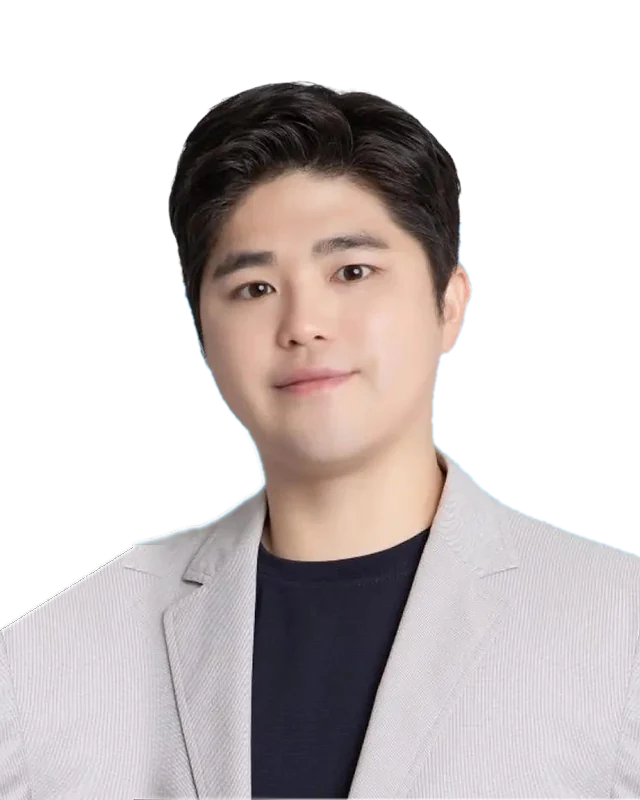
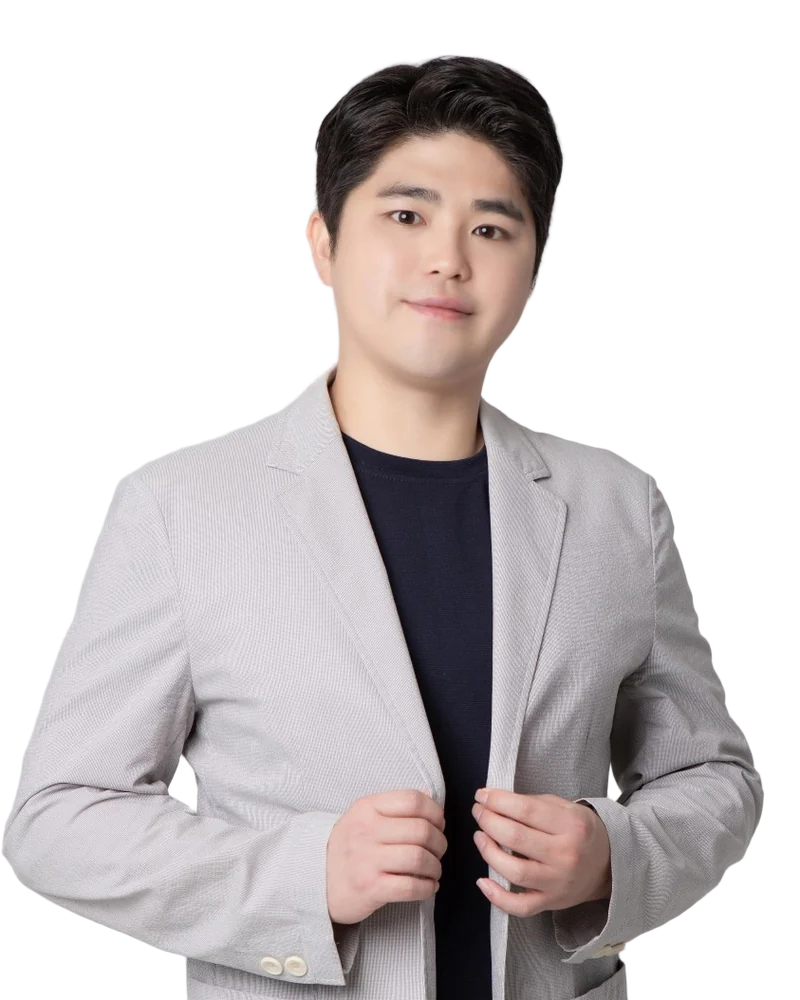
Instructor cards: bring back 3D doogo symbol, new 문대표 upper-body photo
- Restore the extruded doogo symbol frame with the head popping out
  above it, now with the waist-up 4:5 cutouts for every instructor
- New 문대표 cutout from the photo 대표님 sent (same framing as 부알남 ·
  황금농부: 5% headroom, upper body to the waist)
- README

Claude-Session: https://claude.ai/code/session_01QiS8qxkcQBgeuomLZdJMad

diff --git a/class/home.css b/class/home.css
@@ -173,13 +173,23 @@ body[data-mode="home"] { background: #fff; }
 /* 강사진 — 프로필 사진 카드 (사진 · 이름 · 분야 · 구분선 · SNS) */
 .hm-tcs { display: grid; grid-template-columns: repeat(4, minmax(0, 1fr)); gap: 24px; }
 .hm-tc { display: flex; flex-direction: column; min-width: 0; transition: transform .3s var(--ease); }
-/* 강사 사진 — 타이탄클래스 강사진처럼 배경 장식 없이 밝은 회색 카드 안에 강사만. 누끼 사진(4:5, 머리 위 5% 여백 · 허리 위까지)을 아래에 붙여 꽉 채운다 */
+/* 강사 사진 — 긱스쿨 강사진처럼 큰 브랜드 모양 위에 누끼 사진, 우리는 흰 바탕 + 빨간 doogo 심볼(뒤로 6겹 = 입체 두께).
+   액자(.hm-tc-frame)는 위를 14% 비워 두고, 사진(.hm-tc-cut)은 그 위로 머리가 살짝 튀어나오게 — 양옆 · 아래는 액자에 맞춰 자름.
+   사진은 모두 4:5 누끼(머리 위 5% 여백 · 허리 위까지)라 강사마다 같은 구도로 상반신이 보인다 */
 .hm-defs { position: absolute; width: 0; height: 0; overflow: hidden; }
-.hm-tc-photo { position: relative; display: block; aspect-ratio: 4 / 5; border-radius: 16px; overflow: hidden; isolation: isolate; background: linear-gradient(180deg, #f5f6f8 0%, #eceef1 100%); box-shadow: inset 0 0 0 1px rgba(17, 24, 39, .04); transition: box-shadow .3s ease; }
-.hm-tc-frame { position: absolute; inset: 0; }
-.hm-tc-cut { position: absolute; inset: 0; z-index: 1; pointer-events: none; }
-.hm-tc-cut img { position: absolute; inset: 0; width: 100%; height: 100%; object-fit: contain; object-position: 50% 100%; transform-origin: 50% 100%; transition: transform .5s var(--ease); }
-.hm-tc-ph { position: absolute; left: 50%; bottom: 0; width: 70%; transform: translateX(-50%); fill: #d9dde3; }
+.hm-tc { --sw: 132%; --sl: -6%; --st: 4%; }
+.hm-tcs > .hm-tc:nth-child(4n+2) { --sw: 220%; --sl: -40%; --st: -40%; }
+.hm-tcs > .hm-tc:nth-child(4n+3) { --sw: 150%; --sl: -22%; --st: 22%; }
+.hm-tcs > .hm-tc:nth-child(4n+4) { --sw: 190%; --sl: -96%; --st: -6%; }
+.hm-tc-photo { position: relative; display: block; aspect-ratio: 4 / 5; border-radius: 18px; }
+.hm-tc-frame { position: absolute; left: 0; right: 0; top: 14%; bottom: 0; border-radius: 18px; overflow: hidden; background: linear-gradient(180deg, #fff7f6 0%, #ffffff 70%); border: 1px solid #f4e6e4; box-shadow: 0 22px 40px -26px rgba(150, 30, 20, .45); transition: box-shadow .3s ease; }
+.hm-tc-sym { position: absolute; left: var(--sl); top: var(--st); width: var(--sw); height: auto; overflow: visible; filter: drop-shadow(0 18px 22px rgba(170, 24, 12, .22)); transition: transform .6s var(--ease); }
+.hm-tc-ex { fill: #c61d12; }
+.hm-tc-ex:first-child { fill: #a8160c; }
+.hm-tc-face { fill: url(#hm-dsym-g); }
+.hm-tc-cut { position: absolute; inset: 0; z-index: 2; pointer-events: none; clip-path: inset(-40% 0 0 0 round 0 0 18px 18px); }
+.hm-tc-cut img { position: absolute; left: 50%; bottom: 0; height: 106%; width: auto; max-width: none; transform: translateX(-50%); transform-origin: 50% 100%; filter: drop-shadow(0 10px 18px rgba(60, 10, 6, .22)); transition: transform .5s var(--ease); }
+.hm-tc-ph { position: absolute; left: 50%; bottom: 0; width: 64%; transform: translateX(-50%); fill: #fff; filter: drop-shadow(0 10px 16px rgba(150, 24, 12, .28)); }
 .hm-tc-tag { position: absolute; z-index: 3; left: 12px; bottom: 12px; padding: 4px 10px; border-radius: 50px; background: rgba(255, 255, 255, .96); border: 1px solid var(--g100); box-shadow: 0 2px 8px rgba(0, 0, 0, .08); font-size: 12px; font-weight: 600; color: var(--g700); transition: background-color .25s ease, color .25s ease, border-color .25s ease; }
 .hm-tc-body { padding: 18px 2px 14px; border-bottom: 1px solid var(--g200); }
 .hm-tc-body h3 { font-size: 20px; font-weight: 700; line-height: 1.4; letter-spacing: 0; transition: color .2s ease; }
@@ -418,8 +428,9 @@ body[data-mode="home"] { background: #fff; }
   .hm-hov:hover .hm-ic { transform: rotate(-8deg) scale(1.08); }
 
   .hm-tc:hover { transform: translateY(-6px); }
-  .hm-tc:hover .hm-tc-photo { box-shadow: inset 0 0 0 1px rgba(17, 24, 39, .04), 0 22px 40px -26px rgba(17, 24, 39, .35); }
-  .hm-tc:hover .hm-tc-cut img { transform: scale(1.03); }
+  .hm-tc:hover .hm-tc-frame { box-shadow: 0 28px 48px -24px rgba(150, 30, 20, .5); }
+  .hm-tc:hover .hm-tc-cut img { transform: translateX(-50%) scale(1.04); }
+  .hm-tc:hover .hm-tc-sym { transform: translate(-3%, -4%) scale(1.05); }
   .hm-tc:hover .hm-tc-tag { background: var(--pri); border-color: var(--pri); color: #fff; }
   .hm-tc:hover h3 { color: var(--pri); }
   .hm-sns:hover { border-color: var(--g400); background: #fff; }
@@ -503,10 +514,10 @@ textarea.hm-in { height: auto; min-height: 76px; padding: 13px 16px; line-height
   .hm-cmp-strike { transition: none; background-size: 100% 2px; }
   .hm-cmp-row.in .hm-cmp-ok, .hm-cmp-row.in .hm-cmp-new { animation: none; }
   .hm-chip, .hm-dot, .hm-mbg, .hm-modal, .hm-done-ic { animation: none; }
-  .hm-btn, .hm-hov, .hm-tc, .hm-join, .hm-ic, .hm-tc-cut img, .hm-join-ic { transition: none; }
+  .hm-btn, .hm-hov, .hm-tc, .hm-join, .hm-ic, .hm-tc-cut img, .hm-tc-sym, .hm-join-ic { transition: none; }
   .hm-hov:hover, .hm-tc:hover, .hm-join:hover,   .hm-top, .hm-top-prog { transition: none; }
-  .hm-hov:hover .hm-ic, .hm-join:hover .hm-join-ic { transform: none; }
-  .hm-tc:hover .hm-tc-cut img { transform: none; }
+  .hm-hov:hover .hm-ic, .hm-join:hover .hm-join-ic, .hm-tc:hover .hm-tc-sym { transform: none; }
+  .hm-tc:hover .hm-tc-cut img { transform: translateX(-50%); }
 }
 
 /* 태블릿 */

diff --git a/dist/class/home.css b/dist/class/home.css
@@ -173,13 +173,23 @@ body[data-mode="home"] { background: #fff; }
 /* 강사진 — 프로필 사진 카드 (사진 · 이름 · 분야 · 구분선 · SNS) */
 .hm-tcs { display: grid; grid-template-columns: repeat(4, minmax(0, 1fr)); gap: 24px; }
 .hm-tc { display: flex; flex-direction: column; min-width: 0; transition: transform .3s var(--ease); }
-/* 강사 사진 — 타이탄클래스 강사진처럼 배경 장식 없이 밝은 회색 카드 안에 강사만. 누끼 사진(4:5, 머리 위 5% 여백 · 허리 위까지)을 아래에 붙여 꽉 채운다 */
+/* 강사 사진 — 긱스쿨 강사진처럼 큰 브랜드 모양 위에 누끼 사진, 우리는 흰 바탕 + 빨간 doogo 심볼(뒤로 6겹 = 입체 두께).
+   액자(.hm-tc-frame)는 위를 14% 비워 두고, 사진(.hm-tc-cut)은 그 위로 머리가 살짝 튀어나오게 — 양옆 · 아래는 액자에 맞춰 자름.
+   사진은 모두 4:5 누끼(머리 위 5% 여백 · 허리 위까지)라 강사마다 같은 구도로 상반신이 보인다 */
 .hm-defs { position: absolute; width: 0; height: 0; overflow: hidden; }
-.hm-tc-photo { position: relative; display: block; aspect-ratio: 4 / 5; border-radius: 16px; overflow: hidden; isolation: isolate; background: linear-gradient(180deg, #f5f6f8 0%, #eceef1 100%); box-shadow: inset 0 0 0 1px rgba(17, 24, 39, .04); transition: box-shadow .3s ease; }
-.hm-tc-frame { position: absolute; inset: 0; }
-.hm-tc-cut { position: absolute; inset: 0; z-index: 1; pointer-events: none; }
-.hm-tc-cut img { position: absolute; inset: 0; width: 100%; height: 100%; object-fit: contain; object-position: 50% 100%; transform-origin: 50% 100%; transition: transform .5s var(--ease); }
-.hm-tc-ph { position: absolute; left: 50%; bottom: 0; width: 70%; transform: translateX(-50%); fill: #d9dde3; }
+.hm-tc { --sw: 132%; --sl: -6%; --st: 4%; }
+.hm-tcs > .hm-tc:nth-child(4n+2) { --sw: 220%; --sl: -40%; --st: -40%; }
+.hm-tcs > .hm-tc:nth-child(4n+3) { --sw: 150%; --sl: -22%; --st: 22%; }
+.hm-tcs > .hm-tc:nth-child(4n+4) { --sw: 190%; --sl: -96%; --st: -6%; }
+.hm-tc-photo { position: relative; display: block; aspect-ratio: 4 / 5; border-radius: 18px; }
+.hm-tc-frame { position: absolute; left: 0; right: 0; top: 14%; bottom: 0; border-radius: 18px; overflow: hidden; background: linear-gradient(180deg, #fff7f6 0%, #ffffff 70%); border: 1px solid #f4e6e4; box-shadow: 0 22px 40px -26px rgba(150, 30, 20, .45); transition: box-shadow .3s ease; }
+.hm-tc-sym { position: absolute; left: var(--sl); top: var(--st); width: var(--sw); height: auto; overflow: visible; filter: drop-shadow(0 18px 22px rgba(170, 24, 12, .22)); transition: transform .6s var(--ease); }
+.hm-tc-ex { fill: #c61d12; }
+.hm-tc-ex:first-child { fill: #a8160c; }
+.hm-tc-face { fill: url(#hm-dsym-g); }
+.hm-tc-cut { position: absolute; inset: 0; z-index: 2; pointer-events: none; clip-path: inset(-40% 0 0 0 round 0 0 18px 18px); }
+.hm-tc-cut img { position: absolute; left: 50%; bottom: 0; height: 106%; width: auto; max-width: none; transform: translateX(-50%); transform-origin: 50% 100%; filter: drop-shadow(0 10px 18px rgba(60, 10, 6, .22)); transition: transform .5s var(--ease); }
+.hm-tc-ph { position: absolute; left: 50%; bottom: 0; width: 64%; transform: translateX(-50%); fill: #fff; filter: drop-shadow(0 10px 16px rgba(150, 24, 12, .28)); }
 .hm-tc-tag { position: absolute; z-index: 3; left: 12px; bottom: 12px; padding: 4px 10px; border-radius: 50px; background: rgba(255, 255, 255, .96); border: 1px solid var(--g100); box-shadow: 0 2px 8px rgba(0, 0, 0, .08); font-size: 12px; font-weight: 600; color: var(--g700); transition: background-color .25s ease, color .25s ease, border-color .25s ease; }
 .hm-tc-body { padding: 18px 2px 14px; border-bottom: 1px solid var(--g200); }
 .hm-tc-body h3 { font-size: 20px; font-weight: 700; line-height: 1.4; letter-spacing: 0; transition: color .2s ease; }
@@ -418,8 +428,9 @@ body[data-mode="home"] { background: #fff; }
   .hm-hov:hover .hm-ic { transform: rotate(-8deg) scale(1.08); }
 
   .hm-tc:hover { transform: translateY(-6px); }
-  .hm-tc:hover .hm-tc-photo { box-shadow: inset 0 0 0 1px rgba(17, 24, 39, .04), 0 22px 40px -26px rgba(17, 24, 39, .35); }
-  .hm-tc:hover .hm-tc-cut img { transform: scale(1.03); }
+  .hm-tc:hover .hm-tc-frame { box-shadow: 0 28px 48px -24px rgba(150, 30, 20, .5); }
+  .hm-tc:hover .hm-tc-cut img { transform: translateX(-50%) scale(1.04); }
+  .hm-tc:hover .hm-tc-sym { transform: translate(-3%, -4%) scale(1.05); }
   .hm-tc:hover .hm-tc-tag { background: var(--pri); border-color: var(--pri); color: #fff; }
   .hm-tc:hover h3 { color: var(--pri); }
   .hm-sns:hover { border-color: var(--g400); background: #fff; }
@@ -503,10 +514,10 @@ textarea.hm-in { height: auto; min-height: 76px; padding: 13px 16px; line-height
   .hm-cmp-strike { transition: none; background-size: 100% 2px; }
   .hm-cmp-row.in .hm-cmp-ok, .hm-cmp-row.in .hm-cmp-new { animation: none; }
   .hm-chip, .hm-dot, .hm-mbg, .hm-modal, .hm-done-ic { animation: none; }
-  .hm-btn, .hm-hov, .hm-tc, .hm-join, .hm-ic, .hm-tc-cut img, .hm-join-ic { transition: none; }
+  .hm-btn, .hm-hov, .hm-tc, .hm-join, .hm-ic, .hm-tc-cut img, .hm-tc-sym, .hm-join-ic { transition: none; }
   .hm-hov:hover, .hm-tc:hover, .hm-join:hover,   .hm-top, .hm-top-prog { transition: none; }
-  .hm-hov:hover .hm-ic, .hm-join:hover .hm-join-ic { transform: none; }
-  .hm-tc:hover .hm-tc-cut img { transform: none; }
+  .hm-hov:hover .hm-ic, .hm-join:hover .hm-join-ic, .hm-tc:hover .hm-tc-sym { transform: none; }
+  .hm-tc:hover .hm-tc-cut img { transform: translateX(-50%); }
 }
 
 /* 태블릿 */

diff --git a/class/home.js b/class/home.js
@@ -338,19 +338,22 @@
     kakao: '<svg viewBox="0 0 24 24" aria-hidden="true"><rect x="1.5" y="1.5" width="21" height="21" rx="6" fill="#fee500"/><path d="M12 6.2c-3.6 0-6.4 2.2-6.4 5 0 1.8 1.2 3.4 3 4.3l-.6 2.3 2.6-1.7c.5.1.9.1 1.4.1 3.6 0 6.4-2.2 6.4-5s-2.8-5-6.4-5z" fill="#3c1e1e"/></svg>'
   };
   const SILHOUETTE = '<svg class="hm-tc-ph" viewBox="0 0 200 250" aria-hidden="true"><circle cx="100" cy="92" r="44"/><path d="M18 250c4-58 40-92 82-92s78 34 82 92Z"/></svg>';
-  // doogo 심볼(링 · 기둥 · 재생 표시)을 크게 — 기능 칸 휴대폰 뒤 배경. 페이지에 한 번만 정의하고 <use> 로 (여러 겹 = 입체 두께)
+  // doogo 심볼(링 · 기둥 · 재생 표시)을 크게 — 기능 칸 휴대폰 뒤 · 강사 카드 뒤 배경. 페이지에 한 번만 정의하고 <use> 로 (여러 겹 = 입체 두께)
   const DSYM_DEFS = '<svg class="hm-defs" width="0" height="0" aria-hidden="true" focusable="false"><defs>' +
     '<linearGradient id="hm-dsym-g" x1="0" y1="0" x2="1" y2="1"><stop offset="0" stop-color="#ff8378"/><stop offset=".5" stop-color="#f94239"/><stop offset="1" stop-color="#e0251a"/></linearGradient>' +
     '<symbol id="hm-dsym" viewBox="0 0 364 380"><path fill-rule="evenodd" d="M148 88a145 145 0 1 0 .01 0Zm0 67a78 78 0 1 1-.01 0Z"/><rect x="232" width="58" height="272" rx="29"/><path d="M300 148L350 178Q364 190 350 202L300 232Z"/></symbol>' +
     "</defs></svg>";
+  const DSYM = '<svg class="hm-tc-sym" viewBox="-4 -4 384 400" aria-hidden="true">' +
+    [6, 5, 4, 3, 2, 1].map((k) => '<use href="#hm-dsym" class="hm-tc-ex" x="' + (k * 1.6).toFixed(1) + '" y="' + (k * 2).toFixed(1) + '"/>').join("") +
+    '<use href="#hm-dsym" class="hm-tc-face"/></svg>';
   function classList(list) {
     // 강사 유튜브 · 인스타그램 · 카카오톡: 서비스 마크 + 이름표 (무엇으로 가는 링크인지 바로 보이게)
     const sns = (x) => [["youtube", x.yt, "강사 유튜브"], ["instagram", x.ig, "인스타그램"], ["kakao", x.kakao, "카카오톡 채널"]]
       .filter((v) => /^https?:\/\//i.test(v[1]))
       .map((v) => '<a class="hm-sns hm-sns-' + v[0] + '" href="' + esc(v[1]) + '" target="_blank" rel="noopener" aria-label="' + esc(x.who) + " " + v[2] + ' (새 창)">' + SNS[v[0]] + "<span>" + v[2] + "</span>" + icon("arrowUpRight", "xs") + "</a>").join("");
     const card = (x, i) => {
-      // 장식 없이 밝은 회색 카드 안에 강사만 (사진이 없으면 회색 실루엣)
-      const photo = '<span class="hm-tc-frame">' + (x.photo ? "" : SILHOUETTE) + "</span>" +
+      // 액자(연한 바탕 + 큰 빨간 3D doogo 심볼) 위로 누끼 사진(허리 위까지)의 머리가 살짝 튀어나오게
+      const photo = '<span class="hm-tc-frame">' + DSYM + (x.photo ? "" : SILHOUETTE) + "</span>" +
         (x.photo ? '<span class="hm-tc-cut"><img src="' + esc(x.photo) + '" alt="' + esc(x.who) + ' 강사" decoding="async"></span>' : "") +
         '<span class="hm-tc-tag">' + x.weeks + "주 과정</span>";
       return '<article class="hm-tc hm-reveal" style="--i:' + i + '">' +

diff --git a/dist/class/home.js b/dist/class/home.js
@@ -338,19 +338,22 @@
     kakao: '<svg viewBox="0 0 24 24" aria-hidden="true"><rect x="1.5" y="1.5" width="21" height="21" rx="6" fill="#fee500"/><path d="M12 6.2c-3.6 0-6.4 2.2-6.4 5 0 1.8 1.2 3.4 3 4.3l-.6 2.3 2.6-1.7c.5.1.9.1 1.4.1 3.6 0 6.4-2.2 6.4-5s-2.8-5-6.4-5z" fill="#3c1e1e"/></svg>'
   };
   const SILHOUETTE = '<svg class="hm-tc-ph" viewBox="0 0 200 250" aria-hidden="true"><circle cx="100" cy="92" r="44"/><path d="M18 250c4-58 40-92 82-92s78 34 82 92Z"/></svg>';
-  // doogo 심볼(링 · 기둥 · 재생 표시)을 크게 — 기능 칸 휴대폰 뒤 배경. 페이지에 한 번만 정의하고 <use> 로 (여러 겹 = 입체 두께)
+  // doogo 심볼(링 · 기둥 · 재생 표시)을 크게 — 기능 칸 휴대폰 뒤 · 강사 카드 뒤 배경. 페이지에 한 번만 정의하고 <use> 로 (여러 겹 = 입체 두께)
   const DSYM_DEFS = '<svg class="hm-defs" width="0" height="0" aria-hidden="true" focusable="false"><defs>' +
     '<linearGradient id="hm-dsym-g" x1="0" y1="0" x2="1" y2="1"><stop offset="0" stop-color="#ff8378"/><stop offset=".5" stop-color="#f94239"/><stop offset="1" stop-color="#e0251a"/></linearGradient>' +
     '<symbol id="hm-dsym" viewBox="0 0 364 380"><path fill-rule="evenodd" d="M148 88a145 145 0 1 0 .01 0Zm0 67a78 78 0 1 1-.01 0Z"/><rect x="232" width="58" height="272" rx="29"/><path d="M300 148L350 178Q364 190 350 202L300 232Z"/></symbol>' +
     "</defs></svg>";
+  const DSYM = '<svg class="hm-tc-sym" viewBox="-4 -4 384 400" aria-hidden="true">' +
+    [6, 5, 4, 3, 2, 1].map((k) => '<use href="#hm-dsym" class="hm-tc-ex" x="' + (k * 1.6).toFixed(1) + '" y="' + (k * 2).toFixed(1) + '"/>').join("") +
+    '<use href="#hm-dsym" class="hm-tc-face"/></svg>';
   function classList(list) {
     // 강사 유튜브 · 인스타그램 · 카카오톡: 서비스 마크 + 이름표 (무엇으로 가는 링크인지 바로 보이게)
     const sns = (x) => [["youtube", x.yt, "강사 유튜브"], ["instagram", x.ig, "인스타그램"], ["kakao", x.kakao, "카카오톡 채널"]]
       .filter((v) => /^https?:\/\//i.test(v[1]))
       .map((v) => '<a class="hm-sns hm-sns-' + v[0] + '" href="' + esc(v[1]) + '" target="_blank" rel="noopener" aria-label="' + esc(x.who) + " " + v[2] + ' (새 창)">' + SNS[v[0]] + "<span>" + v[2] + "</span>" + icon("arrowUpRight", "xs") + "</a>").join("");
     const card = (x, i) => {
-      // 장식 없이 밝은 회색 카드 안에 강사만 (사진이 없으면 회색 실루엣)
-      const photo = '<span class="hm-tc-frame">' + (x.photo ? "" : SILHOUETTE) + "</span>" +
+      // 액자(연한 바탕 + 큰 빨간 3D doogo 심볼) 위로 누끼 사진(허리 위까지)의 머리가 살짝 튀어나오게
+      const photo = '<span class="hm-tc-frame">' + DSYM + (x.photo ? "" : SILHOUETTE) + "</span>" +
         (x.photo ? '<span class="hm-tc-cut"><img src="' + esc(x.photo) + '" alt="' + esc(x.who) + ' 강사" decoding="async"></span>' : "") +
         '<span class="hm-tc-tag">' + x.weeks + "주 과정</span>";
       return '<article class="hm-tc hm-reveal" style="--i:' + i + '">' +

diff --git a/class/README.md b/class/README.md
@@ -103,7 +103,7 @@ CLASS_SQLITE=/tmp/class.db MASTER_PASSWORD=test node scripts/dev-server.js 4400 
 | `app.js` | 수강생 센터 — 로그인·수강 신청, 기본 메뉴 17개(두고 클래스 이름), 자동검수, AI 조교, 학습 노트 · 용어 사전 · 모범 과제 · 라이브 다시보기, 강사 미리보기. 강사를 고르기 전 첫 로그인 화면은 특정 강사 색이 아니라 두고 클래스(흰 바탕 + 여기어때 레드, 강사 프로필 사진 목록 · 입점 문의 링크)로 보이고, 강사를 고르면 그 강사의 로그인 화면으로 바뀌어요 (모양은 `home.css` 맨 아래 `.login-dc`) |
 | `admin.js` | 강사센터 · 마스터 |
 | 기수 이용료 · 매출 | 이용료 = 강사님 **1인 수강료 × 1명분**, 기수마다(수강생 수와 상관없음). PG 없이 무통장 입금 + 세금계산서. **새 기수는 마스터만 연다** — 강사 · 코치는 이미 있는 기수만 고칠 수 있고 새 기수 추가 · 기수 삭제는 서버가 되돌려요(`access.js` keepCohortSet). 흐름: 강사센터 → 운영 → **다음 기수 신청**(기수 · 1주차 시작 예정일 · 1인 수강료 · 담당자 · 연락처 · 세금계산서 이메일 · 상호/사업자번호(선택) · 남길 말) → 마스터 왼쪽 메뉴 숫자 · 대시보드 알림 · 알림 토스트 → 마스터 → 운영 → **기수 신청 · 매출**에서 전화 → 입금 확인(입금일 · 입금자) → 세금계산서 발행(발행일 · 승인번호) → **기수 열기**(지난 기수의 강의 요일 · 시간 · 커리큘럼을 이어받아 `cohorts:<강사>`에 추가, 신청과 연결) → 그다음은 강사가 ‘기수 관리’에서 자유롭게 고치고 1기 · 2기 · 3기 수강생을 기수별로 관리. 강사는 처리 전(입금 · 계산서 · 기수 오픈 전) 신청만 고치거나 취소할 수 있고, 금액 · 입금 · 계산서 · 기수 연결 · 마스터 메모는 마스터만(서버 `fixBill`). 마스터 화면 탭: 처리할 일(단계 카드) · **달력**(기수 시작 · 시작 예정 · 신청 · 입금 · 계산서) · **매출표**(월별 막대 · 월/연 합계 · 계산서 발행 현황 · 강사별 · 연도별, 매출 = 입금일 기준 공급가액) · 전체 내역(강사 · 상태 필터, 계산서 미발행) · **입금 계좌 · 설정**(은행 · 계좌 · 예금주 · 부가세 포함(기본)/별도/없음 · 강사 안내 문구, `meta.billing` — 방문자 · 수강생에게는 안 보임). 부가세 포함이면 1인 수강료가 그대로 입금액이고, 매출(공급가액)은 그 금액 ÷ 1.1. CSV 내려받기 · 직접 기록. **새 강사 플랫폼** 만들 때 1기 이용료(1인 수강료 · 연락처 · 이메일 · 입금/계산서 여부)를 함께 기록하고, 입점 문의 카드의 ‘플랫폼 만들기’로 문의 내용을 채워 시작할 수 있어요. 강사 대시보드에는 진행 중인 신청, 또는 마지막 기수가 3주 안에 끝나면 다음 기수 신청 안내가 보여요 |
-| `home.js` / `home.css` | 강사님을 위한 세일즈 첫 화면 (대표 주소 `https://www.doogoclass.com/` — `#/about` · `#/` 로 들어와도 주소창은 맨 앞 주소로 정리 · `#/partner` 는 입점 문의 팝업, 닫으면 맨 앞 주소). 두고 클래스는 강사님께 플랫폼 이용료를 받고 수강생은 무료, 이용료는 수강생 수와 상관없이 같아요(금액은 상담 때 안내라 화면에 숫자를 적지 않음). 강사님이 받는 세 가지: ① 강의 소개 랜딩페이지(`#/p/…`) ② 무료강의 전자책(`#/free/…`) ③ 수강생 케어 커리큘럼 · 튜토리얼 시스템. 순서(PC에서 빈 곳 없이 꽉 차게): 첫 화면(입점 문의 · 수강생 로그인 카드 — 빨강 책 아이콘 · “수강생이신가요?” · 오른쪽 빨간 ‘수강생 로그인’ 버튼, 카드 전체를 눌러도 됨) → 기수가 늘수록 버거운 운영 → **한 기수 운영 흐름 8단계**(모집 → 무료 강의 → 신청 · 승인 → 주차별 학습 → 과제 · 피드백 → 수료 → 수료 후 관리 → 다음 기수 — PC · 태블릿 4칸 × 2줄, 휴대폰 2칸 × 4줄, 번호는 26px 아이콘 색) → 세 가지(실제 화면 + 기능마다 6개 세부) → **지금 방식(단톡방 · 드라이브 · 노션)과 비교표 8줄** → 수강생이 받는 강의실(8개 탭 + 6개 기능) → 강사센터 세 화면 + 기능 8개 + **직접 고치는 메뉴 23개(운영 7 · 수강생 화면 13 · 홍보 3)** → 이용료 구조(강사님 정액 · 수강생 0원 · 인원 무관) + **기수 단위 운영 4단계**(1기 입점 → 다음 기수 신청 → 입금 · 세금계산서 → 기수 오픈) → 기수가 쌓일수록 강해지는 구조 → 강사진(프로필 사진 카드) → 입점 순서 5단계 → 자주 묻는 질문 10개(PC는 두 줄) → 마지막 안내(포인트 3개). **흰 바탕 + 아주 옅은 빨강**: 구역 · 패널(세 가지 기능 카드 · 수강생 화면 판 · 기수 운영 · 고객센터 상자) · 마지막 안내는 거의 흰색(#FFFEFE · #FFFCFC)에 빨강 기운만 아주 살짝, 구역은 옅은 구분선으로 나눔(빨강은 제목 일부 · 버튼만). 수강생 첫 로그인 · 강사 로그인 왼쪽도 같은 정도로 옅게. **아이콘은 여러 색** — 카드 순서대로 빨강 · 파랑 · 초록 · 보라 · 주황 · 분홍 파스텔(`--tone` / `--tone-bg`), 누르거나 마우스를 올려도 빨강으로 바뀌지 않음(올리면 카드만 살짝 뜸, 터치 화면은 반응 없음). **비교표**: 줄마다 화면에 들어오면 ‘지금 방식’ 글자에 빨간 줄이 왼쪽→오른쪽으로 그어지고, 이어서 두고 쪽 빨간 동그라미 체크가 톡 튀어나오며 칸이 한 번 밝아짐. 강사진 카드는 ‘N주 과정’만(과제 수는 뺌), 사진은 **타이탄클래스 강사진처럼 배경 장식 없이 밝은 회색 카드 안에 강사만**(문대표 `moon-profile.webp` 640×800 · 부알남 김신용 대표 `logic-profile.webp` · 황금농부 `farmer-profile.webp` 800×1000 — 모두 배경을 뺀 4:5, 머리 위 5% 여백, 부알남 · 황금농부는 팔짱 낀 허리 위까지. 문대표는 원본 사진이 가슴 아래까지만 있어 그만큼. 카드 아래에 붙여 꽉 채우고, 사진이 없으면 회색 실루엣), 이름 옆에 강사 SNS 이름표(유튜브 빨간 마크 + ‘강사 유튜브’ ↗ · 인스타그램 · 카카오톡 채널, 넣은 것만), 아래는 ‘강의 소개’ · ‘무료 강의’ 두 칸 버튼 + 한 줄 전체 ‘수강생 로그인’ 버튼(카드끼리 버튼 높이가 맞게). **디자인은 여기어때 YDS(디자인 시스템)**: Lively Red 800 `#F94239`(누르면 900 `#EA2013`, 옅은 50 `#FFF5F5` · 100 `#FFEDEA` · 200 `#FEDFDE`) + 무채색 Neutral(`#FAFAFA` · `#F5F5F5` · `#E6E6E6` · `#DCDCDC` · `#999999` · `#707070` · `#474747` · `#222222`), 보조색은 시안 `#006CE0` · 그린 `#01A484` 만, 그림자는 역할별 4단계(평평 · 머리띠 `0 4px 6px rgba(0,0,0,.04)` · 떠 있는 카드 `0 2px 16px rgba(0,0,0,.08)` · 시트), 모서리 8 · 12 · 16 · 20px. **글꼴은 문대표 수강생 화면과 똑같은 글꼴**(`styles.css` 의 `--font` = `"Inter", "Pretendard Variable", Pretendard, "Noto Sans KR", …` — 영문 · 숫자는 Inter, 한글은 Pretendard(`assets/fonts/pretendard.css`)), 본문 자간 0 · 굵은 제목은 수강생 화면처럼 좁게(첫 제목 -0.04em · 구역 제목 -0.03em · 카드 제목 -0.02em), 첫 제목 54px/800 · 구역 제목 32px/700 · 카드 제목 17~20px/700 · 본문 14~17px · 버튼 15px/600. 휴대폰 · 태블릿(한 줄 화면)에서 세 가지 기능 카드는 설명 → 실제 화면 영상 → 세부 기능 6개 순서. **세 가지 기능 카드**: 위 번호(01 · 02 · 03) 옆에 16px 이름표(모집 · 무료 강의 · 수강생 케어). 번호는 60px(휴대폰 46px) **두께 있는 입체 숫자**(오른쪽 아래로 6겹 + 그림자). 휴대폰 화면은 **입체 무대**(`.hm-3d`) 위에 — 뒤에 아주 큰 입체 doogo 심볼(7겹, 각 3px 깊이) · 휴대폰 두께 · 빛 반사 · 바닥 그림자 · 앞에 떠 있는 알림 카드 2개(01 수강 신청 1건 · 4기 모집 38/50명, 02 선물 전자책 · 무료 강의 카운트다운(1초마다 줄어듦), 03 자동 검수 통과 · 진행률 75%)가 서로 다른 깊이에 있어, **평소에는 언제나 정면**(기본 각도 0 — 스크롤하면 위아래로 살짝 뜨고 빛 반사만 지나감, `--sp` · 클로드 아티팩트처럼 글 길이만큼 늘어난 틀 안에서는 보이는 비율로 계산). **끌어서 돌려 보기**: 마우스로 끌거나 손가락으로 좌우로 밀 때만 정면 기준 앞면이 보이는 범위(좌우 ±35° · 위아래 ±15°, `--gy` · `--gx`) 안에서 돌아가고, 놓으면 살짝 튕기며 정면으로 — 휴대폰에서 세로로 밀면 원래대로 화면이 스크롤(`touch-action: pan-y`), 끈 뒤의 클릭은 무시, 캡션 옆 ‘끌어서 돌려 보기’ 안내(`--mx` · `--my`, `deviceorientation` — 권한을 묻지 않는 안드로이드 등만, 몇 초 지나면 가운데로 돌아옴). 알림 카드는 천천히 위아래로 떠다니고, 이 입체 움직임은 기기의 ‘애니메이션 줄이기’가 켜져 있어도 느리게 그대로. 구역 위아래 여백은 72px(태블릿 60 · 휴대폰 52), 첫 화면은 순수 흰 바탕(빨강 번짐 없음), 이용료 칸의 금액 안내 문구는 뺐어요. 첫 로그인 강사 고르기 화면(`.login-dc`) · 강사센터 · 코치 · 마스터도 같은 레드 · 글꼴. **두고 클래스 로고**(`doogoClassLock()` in `icons.js`, 모양은 `home.css` `.hm-lock`): doogo 로고(`doogo-color.png`, 레드 심볼 + 검정 글자)는 그대로 두고 오른쪽에 **작은 빨간 CLASS 배지**(흰 글자 · 대문자 · 로고 높이의 0.32배). 크기는 `--lh`(= doogo 로고 높이) 하나로 조절. 첫 화면 위 막대 · 바닥 · 비교표 · 첫 로그인 · 강사 로그인 카드 · 강사센터 · 마스터 머리띠에 같은 로고. `doogo-color.png` · `doogo-mark.png` · `favicon.png` 의 심볼도 같은 레드. 위 막대는 흰 바탕 그대로, 내려가면 머리띠 그림자가 생기고 아래 빨간 줄이 읽은 만큼 차올라요. 바닥(흰 바탕)은 소개 · 바로가기 3단(두고 클래스 · 바로가기 · 고객지원) + 문의 상자(전화가 있으면 고객센터 번호, 없으면 **사업제휴 · 입점 문의 이메일**을 크게 + 운영 시간(첫 마디 굵게 · 점심 · 휴무는 작게)) + **사업자 정보 두 줄**(① 상호(굵게) · 대표 · 사업자등록번호(사업자정보확인) · 통신판매업신고 ② 주소 · 우편번호 · 고객센터 · 사업제휴 문의 · 개인정보 보호책임자 · 호스팅) + 맨 아래 안내 문구(통신판매중개자) + 이용약관 · 개인정보처리방침 · 오픈소스 라이선스(주소를 넣기 전에는 `legal.js` 의 두고클래스(www.doogoclass.com) 정식 문서를 팝업으로 — 수강생 로그인 화면 팝업도 같은 문서, "## " 소제목 · "- " 목록 형식)로, 마스터 → 운영 → 첫 화면 · 사업자 정보에서 고쳐요(채운 칸만 보임, `meta.site`). 기본값(`db.js` `SITE_DEFAULT`)은 (주)두고홀딩스 · 대표 문원오 · 726-87-03167 · 제 2024-세종아름-0878 호 · 세종특별자치시 갈매로 353 에비뉴힐 5층 5023호(30121) · doogobiz@gmail.com · 평일 오전 10시 ~ 오후 6시(점심 1~2시 · 주말 · 공휴일 제외), 저장된 칸이 비어 있으면 기본값이 보여요(DB는 건드리지 않음). 두고 그룹사 칸은 바닥에서 뺐어요(예전에 저장한 값은 그대로 둠). 휴대폰(검정 노치 없이 화면만) · 브라우저 틀 안은 **실제 화면을 녹화한 영상**(마우스 커서 · 클릭 효과, 이름은 OOO, 강사센터는 예시 수강생 김OO…, 수강생 화면 · 강의 페이지는 녹화할 때만 첫 화면과 같은 ‘레드’ 색(흰 바탕 + 빨강 포인트)으로 — 실제 강사 색은 그대로): 첫 화면 `v-admin` · `v-home`, 세 가지 `v-lp` · `v-free` · `v-care`, 수강생 강의실 `v-student`(8개 장 — 탭을 누르면 그 장면으로, 영상이 넘어가면 탭도 따라감), 강사센터 `v-admin`(3개 장). `assets/home/v-*.mp4`(H.264) · `v-*.webm`(VP9, mp4를 못 트는 브라우저용) · `v-*.webp`(첫 장면 사진). 처음엔 사진만 보이고, 화면 근처(400px)에 오면 미리 받아 두고 **영상이 절반 넘게 보일 때만** 소리 없이 반복 재생 · 거의 안 보이면 멈춤(아래에 있는 영상은 내려가서 볼 때 시작). 휴대폰에서는 재생 버튼을 감추고(멈춰 둔 영상에만 보임), PC는 마우스를 올리면 오른쪽 아래 버튼으로 멈춤/재생. 다시 보면 멈췄던 곳부터 이어서 재생. 휴대폰의 ‘애니메이션 줄이기’ · 절전 모드여도 멈춘 채로 두지 않고 저절로 재생(소리 없는 화면 녹화). **영상 자동 재생을 막는 앱 안 브라우저**(일부 안드로이드 웹뷰 · 절전 모드 — `play()` 가 NotAllowedError 이거나 받아 둔 장면이 있는데 3초 넘게 멈춰 있으면)에서는 같은 녹화를 **움직이는 그림 `v-*.anim.webp`**(ffmpeg libwebp_anim, 휴대폰 영상 400px · 10fps, 강사센터 720px · 8fps, 0.6~1.3MB)으로 바꿔 보여 줘요. 영상을 다시 찍으면 anim.webp 도 같이 다시 만들기. 화면이 바뀌어 다시 찍을 때는 `scripts/demo-videos/`(Playwright + ffmpeg, 사용법은 lib.js 맨 위). 메뉴 · ‘3가지 기능 보기’ 버튼은 `scrollIntoView` 로 내려가서 클로드 아티팩트처럼 다른 화면 안에 들어가 있어도 움직여요. **대표 주소는 https://www.doogoclass.com** (doogoclass.com 은 www 로 308 이동, doogo-class.vercel.app 도 그대로 열림). **검색 · 공유(SEO)**: `index.html` 머리에 제목 “두고클래스 | 강사를 위한 올인원 강의 운영 플랫폼” · 설명(강의 개설부터 수강생 관리, 출석·과제, 공지, 자료실, 운영 관리까지 …) · 공유 이미지 `assets/home/og.jpg`(대표님이 준 디자인 이미지를 1200×630으로, 화면 캡처로 다시 만들지 않기 — 바꾸면 `?v=` 숫자도 바꿔야 카카오톡 · 페이스북이 새로 가져감) · canonical · og/twitter 태그 · 구조화 데이터(WebSite · Organization JSON-LD), `robots.txt`(/api 제외) · `sitemap.xml`. 첫 화면 탭 제목(`home.js` `document.title`)도 같은 제목. **입점 문의**: 위 막대 · 첫 화면 · 세 가지 · 이용료 · 강사진 · 입점 순서 · FAQ · 마지막 안내 · 바닥의 버튼(또는 `#/partner`)으로 팝업이 열리고, 서버에서는 `inq:<id>` 문서로 저장(마스터만 읽기 · 같은 IP는 연속 6건까지), 마스터 → 지원 → 강사 입점 문의에서 상태 · 메모 · 삭제 |
+| `home.js` / `home.css` | 강사님을 위한 세일즈 첫 화면 (대표 주소 `https://www.doogoclass.com/` — `#/about` · `#/` 로 들어와도 주소창은 맨 앞 주소로 정리 · `#/partner` 는 입점 문의 팝업, 닫으면 맨 앞 주소). 두고 클래스는 강사님께 플랫폼 이용료를 받고 수강생은 무료, 이용료는 수강생 수와 상관없이 같아요(금액은 상담 때 안내라 화면에 숫자를 적지 않음). 강사님이 받는 세 가지: ① 강의 소개 랜딩페이지(`#/p/…`) ② 무료강의 전자책(`#/free/…`) ③ 수강생 케어 커리큘럼 · 튜토리얼 시스템. 순서(PC에서 빈 곳 없이 꽉 차게): 첫 화면(입점 문의 · 수강생 로그인 카드 — 빨강 책 아이콘 · “수강생이신가요?” · 오른쪽 빨간 ‘수강생 로그인’ 버튼, 카드 전체를 눌러도 됨) → 기수가 늘수록 버거운 운영 → **한 기수 운영 흐름 8단계**(모집 → 무료 강의 → 신청 · 승인 → 주차별 학습 → 과제 · 피드백 → 수료 → 수료 후 관리 → 다음 기수 — PC · 태블릿 4칸 × 2줄, 휴대폰 2칸 × 4줄, 번호는 26px 아이콘 색) → 세 가지(실제 화면 + 기능마다 6개 세부) → **지금 방식(단톡방 · 드라이브 · 노션)과 비교표 8줄** → 수강생이 받는 강의실(8개 탭 + 6개 기능) → 강사센터 세 화면 + 기능 8개 + **직접 고치는 메뉴 23개(운영 7 · 수강생 화면 13 · 홍보 3)** → 이용료 구조(강사님 정액 · 수강생 0원 · 인원 무관) + **기수 단위 운영 4단계**(1기 입점 → 다음 기수 신청 → 입금 · 세금계산서 → 기수 오픈) → 기수가 쌓일수록 강해지는 구조 → 강사진(프로필 사진 카드) → 입점 순서 5단계 → 자주 묻는 질문 10개(PC는 두 줄) → 마지막 안내(포인트 3개). **흰 바탕 + 아주 옅은 빨강**: 구역 · 패널(세 가지 기능 카드 · 수강생 화면 판 · 기수 운영 · 고객센터 상자) · 마지막 안내는 거의 흰색(#FFFEFE · #FFFCFC)에 빨강 기운만 아주 살짝, 구역은 옅은 구분선으로 나눔(빨강은 제목 일부 · 버튼만). 수강생 첫 로그인 · 강사 로그인 왼쪽도 같은 정도로 옅게. **아이콘은 여러 색** — 카드 순서대로 빨강 · 파랑 · 초록 · 보라 · 주황 · 분홍 파스텔(`--tone` / `--tone-bg`), 누르거나 마우스를 올려도 빨강으로 바뀌지 않음(올리면 카드만 살짝 뜸, 터치 화면은 반응 없음). **비교표**: 줄마다 화면에 들어오면 ‘지금 방식’ 글자에 빨간 줄이 왼쪽→오른쪽으로 그어지고, 이어서 두고 쪽 빨간 동그라미 체크가 톡 튀어나오며 칸이 한 번 밝아짐. 강사진 카드는 ‘N주 과정’만(과제 수는 뺌), 사진은 **긱스쿨 강사진처럼 큰 브랜드 모양 위에 누끼 사진** — 흰 바탕 액자 + 아주 큰 빨간 3D doogo 심볼(`DSYM_DEFS` 의 `#hm-dsym` 벡터, 뒤로 6겹 = 입체 두께, 카드마다 다른 부분이 보이게 크기 · 위치를 바꿈) 위에, 액자 위로 머리가 살짝 튀어나오는 누끼 사진(문대표 `moon-profile.webp` · 부알남 김신용 대표 `logic-profile.webp` · 황금농부 `farmer-profile.webp` — 모두 배경을 뺀 800×1000(4:5), 머리 위 5% 여백 · 허리 위 상반신까지 같은 구도. 사진이 없으면 흰 실루엣), 이름 옆에 강사 SNS 이름표(유튜브 빨간 마크 + ‘강사 유튜브’ ↗ · 인스타그램 · 카카오톡 채널, 넣은 것만), 아래는 ‘강의 소개’ · ‘무료 강의’ 두 칸 버튼 + 한 줄 전체 ‘수강생 로그인’ 버튼(카드끼리 버튼 높이가 맞게). **디자인은 여기어때 YDS(디자인 시스템)**: Lively Red 800 `#F94239`(누르면 900 `#EA2013`, 옅은 50 `#FFF5F5` · 100 `#FFEDEA` · 200 `#FEDFDE`) + 무채색 Neutral(`#FAFAFA` · `#F5F5F5` · `#E6E6E6` · `#DCDCDC` · `#999999` · `#707070` · `#474747` · `#222222`), 보조색은 시안 `#006CE0` · 그린 `#01A484` 만, 그림자는 역할별 4단계(평평 · 머리띠 `0 4px 6px rgba(0,0,0,.04)` · 떠 있는 카드 `0 2px 16px rgba(0,0,0,.08)` · 시트), 모서리 8 · 12 · 16 · 20px. **글꼴은 문대표 수강생 화면과 똑같은 글꼴**(`styles.css` 의 `--font` = `"Inter", "Pretendard Variable", Pretendard, "Noto Sans KR", …` — 영문 · 숫자는 Inter, 한글은 Pretendard(`assets/fonts/pretendard.css`)), 본문 자간 0 · 굵은 제목은 수강생 화면처럼 좁게(첫 제목 -0.04em · 구역 제목 -0.03em · 카드 제목 -0.02em), 첫 제목 54px/800 · 구역 제목 32px/700 · 카드 제목 17~20px/700 · 본문 14~17px · 버튼 15px/600. 휴대폰 · 태블릿(한 줄 화면)에서 세 가지 기능 카드는 설명 → 실제 화면 영상 → 세부 기능 6개 순서. **세 가지 기능 카드**: 위 번호(01 · 02 · 03) 옆에 16px 이름표(모집 · 무료 강의 · 수강생 케어). 번호는 60px(휴대폰 46px) **두께 있는 입체 숫자**(오른쪽 아래로 6겹 + 그림자). 휴대폰 화면은 **입체 무대**(`.hm-3d`) 위에 — 뒤에 아주 큰 입체 doogo 심볼(7겹, 각 3px 깊이) · 휴대폰 두께 · 빛 반사 · 바닥 그림자 · 앞에 떠 있는 알림 카드 2개(01 수강 신청 1건 · 4기 모집 38/50명, 02 선물 전자책 · 무료 강의 카운트다운(1초마다 줄어듦), 03 자동 검수 통과 · 진행률 75%)가 서로 다른 깊이에 있어, **평소에는 언제나 정면**(기본 각도 0 — 스크롤하면 위아래로 살짝 뜨고 빛 반사만 지나감, `--sp` · 클로드 아티팩트처럼 글 길이만큼 늘어난 틀 안에서는 보이는 비율로 계산). **끌어서 돌려 보기**: 마우스로 끌거나 손가락으로 좌우로 밀 때만 정면 기준 앞면이 보이는 범위(좌우 ±35° · 위아래 ±15°, `--gy` · `--gx`) 안에서 돌아가고, 놓으면 살짝 튕기며 정면으로 — 휴대폰에서 세로로 밀면 원래대로 화면이 스크롤(`touch-action: pan-y`), 끈 뒤의 클릭은 무시, 캡션 옆 ‘끌어서 돌려 보기’ 안내(`--mx` · `--my`, `deviceorientation` — 권한을 묻지 않는 안드로이드 등만, 몇 초 지나면 가운데로 돌아옴). 알림 카드는 천천히 위아래로 떠다니고, 이 입체 움직임은 기기의 ‘애니메이션 줄이기’가 켜져 있어도 느리게 그대로. 구역 위아래 여백은 72px(태블릿 60 · 휴대폰 52), 첫 화면은 순수 흰 바탕(빨강 번짐 없음), 이용료 칸의 금액 안내 문구는 뺐어요. 첫 로그인 강사 고르기 화면(`.login-dc`) · 강사센터 · 코치 · 마스터도 같은 레드 · 글꼴. **두고 클래스 로고**(`doogoClassLock()` in `icons.js`, 모양은 `home.css` `.hm-lock`): doogo 로고(`doogo-color.png`, 레드 심볼 + 검정 글자)는 그대로 두고 오른쪽에 **작은 빨간 CLASS 배지**(흰 글자 · 대문자 · 로고 높이의 0.32배). 크기는 `--lh`(= doogo 로고 높이) 하나로 조절. 첫 화면 위 막대 · 바닥 · 비교표 · 첫 로그인 · 강사 로그인 카드 · 강사센터 · 마스터 머리띠에 같은 로고. `doogo-color.png` · `doogo-mark.png` · `favicon.png` 의 심볼도 같은 레드. 위 막대는 흰 바탕 그대로, 내려가면 머리띠 그림자가 생기고 아래 빨간 줄이 읽은 만큼 차올라요. 바닥(흰 바탕)은 소개 · 바로가기 3단(두고 클래스 · 바로가기 · 고객지원) + 문의 상자(전화가 있으면 고객센터 번호, 없으면 **사업제휴 · 입점 문의 이메일**을 크게 + 운영 시간(첫 마디 굵게 · 점심 · 휴무는 작게)) + **사업자 정보 두 줄**(① 상호(굵게) · 대표 · 사업자등록번호(사업자정보확인) · 통신판매업신고 ② 주소 · 우편번호 · 고객센터 · 사업제휴 문의 · 개인정보 보호책임자 · 호스팅) + 맨 아래 안내 문구(통신판매중개자) + 이용약관 · 개인정보처리방침 · 오픈소스 라이선스(주소를 넣기 전에는 `legal.js` 의 두고클래스(www.doogoclass.com) 정식 문서를 팝업으로 — 수강생 로그인 화면 팝업도 같은 문서, "## " 소제목 · "- " 목록 형식)로, 마스터 → 운영 → 첫 화면 · 사업자 정보에서 고쳐요(채운 칸만 보임, `meta.site`). 기본값(`db.js` `SITE_DEFAULT`)은 (주)두고홀딩스 · 대표 문원오 · 726-87-03167 · 제 2024-세종아름-0878 호 · 세종특별자치시 갈매로 353 에비뉴힐 5층 5023호(30121) · doogobiz@gmail.com · 평일 오전 10시 ~ 오후 6시(점심 1~2시 · 주말 · 공휴일 제외), 저장된 칸이 비어 있으면 기본값이 보여요(DB는 건드리지 않음). 두고 그룹사 칸은 바닥에서 뺐어요(예전에 저장한 값은 그대로 둠). 휴대폰(검정 노치 없이 화면만) · 브라우저 틀 안은 **실제 화면을 녹화한 영상**(마우스 커서 · 클릭 효과, 이름은 OOO, 강사센터는 예시 수강생 김OO…, 수강생 화면 · 강의 페이지는 녹화할 때만 첫 화면과 같은 ‘레드’ 색(흰 바탕 + 빨강 포인트)으로 — 실제 강사 색은 그대로): 첫 화면 `v-admin` · `v-home`, 세 가지 `v-lp` · `v-free` · `v-care`, 수강생 강의실 `v-student`(8개 장 — 탭을 누르면 그 장면으로, 영상이 넘어가면 탭도 따라감), 강사센터 `v-admin`(3개 장). `assets/home/v-*.mp4`(H.264) · `v-*.webm`(VP9, mp4를 못 트는 브라우저용) · `v-*.webp`(첫 장면 사진). 처음엔 사진만 보이고, 화면 근처(400px)에 오면 미리 받아 두고 **영상이 절반 넘게 보일 때만** 소리 없이 반복 재생 · 거의 안 보이면 멈춤(아래에 있는 영상은 내려가서 볼 때 시작). 휴대폰에서는 재생 버튼을 감추고(멈춰 둔 영상에만 보임), PC는 마우스를 올리면 오른쪽 아래 버튼으로 멈춤/재생. 다시 보면 멈췄던 곳부터 이어서 재생. 휴대폰의 ‘애니메이션 줄이기’ · 절전 모드여도 멈춘 채로 두지 않고 저절로 재생(소리 없는 화면 녹화). **영상 자동 재생을 막는 앱 안 브라우저**(일부 안드로이드 웹뷰 · 절전 모드 — `play()` 가 NotAllowedError 이거나 받아 둔 장면이 있는데 3초 넘게 멈춰 있으면)에서는 같은 녹화를 **움직이는 그림 `v-*.anim.webp`**(ffmpeg libwebp_anim, 휴대폰 영상 400px · 10fps, 강사센터 720px · 8fps, 0.6~1.3MB)으로 바꿔 보여 줘요. 영상을 다시 찍으면 anim.webp 도 같이 다시 만들기. 화면이 바뀌어 다시 찍을 때는 `scripts/demo-videos/`(Playwright + ffmpeg, 사용법은 lib.js 맨 위). 메뉴 · ‘3가지 기능 보기’ 버튼은 `scrollIntoView` 로 내려가서 클로드 아티팩트처럼 다른 화면 안에 들어가 있어도 움직여요. **대표 주소는 https://www.doogoclass.com** (doogoclass.com 은 www 로 308 이동, doogo-class.vercel.app 도 그대로 열림). **검색 · 공유(SEO)**: `index.html` 머리에 제목 “두고클래스 | 강사를 위한 올인원 강의 운영 플랫폼” · 설명(강의 개설부터 수강생 관리, 출석·과제, 공지, 자료실, 운영 관리까지 …) · 공유 이미지 `assets/home/og.jpg`(대표님이 준 디자인 이미지를 1200×630으로, 화면 캡처로 다시 만들지 않기 — 바꾸면 `?v=` 숫자도 바꿔야 카카오톡 · 페이스북이 새로 가져감) · canonical · og/twitter 태그 · 구조화 데이터(WebSite · Organization JSON-LD), `robots.txt`(/api 제외) · `sitemap.xml`. 첫 화면 탭 제목(`home.js` `document.title`)도 같은 제목. **입점 문의**: 위 막대 · 첫 화면 · 세 가지 · 이용료 · 강사진 · 입점 순서 · FAQ · 마지막 안내 · 바닥의 버튼(또는 `#/partner`)으로 팝업이 열리고, 서버에서는 `inq:<id>` 문서로 저장(마스터만 읽기 · 같은 IP는 연속 6건까지), 마스터 → 지원 → 강사 입점 문의에서 상태 · 메모 · 삭제 |
 | `landing.js` / `landing.css` | 강사 홍보 랜딩페이지 · 무료강의 페이지 (공개) |
 | `main.js` | 주소에 따라 소개(home) · 강사센터(admin) · 강사 페이지(landing) · 수강생 센터(app) 전환 |
 | `styles.css` / `admin.css` | 수강생(Wise 구조 + 강사별 색) / 강사·코치·마스터(여기어때 YDS: 레드 #F94239 · 무채색 · 둥근 사각 버튼 8~12px · 자간 0, 흰 바탕에 옅은 빨강 파스텔 — 본문 위쪽 그라데이션 · 따뜻한 구분선 · 숫자 카드마다 다른 파스텔 · 강사 공지 띠도 파스텔) 디자인. 수강생 첫 로그인 강사 고르기 화면 왼쪽도 같은 파스텔, 글자 아바타는 여러 색. 기본 글꼴은 모두 `--font`(Inter + Pretendard, 문대표 수강생 화면과 같은 글꼴) |

diff --git a/dist/class/README.md b/dist/class/README.md
@@ -103,7 +103,7 @@ CLASS_SQLITE=/tmp/class.db MASTER_PASSWORD=test node scripts/dev-server.js 4400 
 | `app.js` | 수강생 센터 — 로그인·수강 신청, 기본 메뉴 17개(두고 클래스 이름), 자동검수, AI 조교, 학습 노트 · 용어 사전 · 모범 과제 · 라이브 다시보기, 강사 미리보기. 강사를 고르기 전 첫 로그인 화면은 특정 강사 색이 아니라 두고 클래스(흰 바탕 + 여기어때 레드, 강사 프로필 사진 목록 · 입점 문의 링크)로 보이고, 강사를 고르면 그 강사의 로그인 화면으로 바뀌어요 (모양은 `home.css` 맨 아래 `.login-dc`) |
 | `admin.js` | 강사센터 · 마스터 |
 | 기수 이용료 · 매출 | 이용료 = 강사님 **1인 수강료 × 1명분**, 기수마다(수강생 수와 상관없음). PG 없이 무통장 입금 + 세금계산서. **새 기수는 마스터만 연다** — 강사 · 코치는 이미 있는 기수만 고칠 수 있고 새 기수 추가 · 기수 삭제는 서버가 되돌려요(`access.js` keepCohortSet). 흐름: 강사센터 → 운영 → **다음 기수 신청**(기수 · 1주차 시작 예정일 · 1인 수강료 · 담당자 · 연락처 · 세금계산서 이메일 · 상호/사업자번호(선택) · 남길 말) → 마스터 왼쪽 메뉴 숫자 · 대시보드 알림 · 알림 토스트 → 마스터 → 운영 → **기수 신청 · 매출**에서 전화 → 입금 확인(입금일 · 입금자) → 세금계산서 발행(발행일 · 승인번호) → **기수 열기**(지난 기수의 강의 요일 · 시간 · 커리큘럼을 이어받아 `cohorts:<강사>`에 추가, 신청과 연결) → 그다음은 강사가 ‘기수 관리’에서 자유롭게 고치고 1기 · 2기 · 3기 수강생을 기수별로 관리. 강사는 처리 전(입금 · 계산서 · 기수 오픈 전) 신청만 고치거나 취소할 수 있고, 금액 · 입금 · 계산서 · 기수 연결 · 마스터 메모는 마스터만(서버 `fixBill`). 마스터 화면 탭: 처리할 일(단계 카드) · **달력**(기수 시작 · 시작 예정 · 신청 · 입금 · 계산서) · **매출표**(월별 막대 · 월/연 합계 · 계산서 발행 현황 · 강사별 · 연도별, 매출 = 입금일 기준 공급가액) · 전체 내역(강사 · 상태 필터, 계산서 미발행) · **입금 계좌 · 설정**(은행 · 계좌 · 예금주 · 부가세 포함(기본)/별도/없음 · 강사 안내 문구, `meta.billing` — 방문자 · 수강생에게는 안 보임). 부가세 포함이면 1인 수강료가 그대로 입금액이고, 매출(공급가액)은 그 금액 ÷ 1.1. CSV 내려받기 · 직접 기록. **새 강사 플랫폼** 만들 때 1기 이용료(1인 수강료 · 연락처 · 이메일 · 입금/계산서 여부)를 함께 기록하고, 입점 문의 카드의 ‘플랫폼 만들기’로 문의 내용을 채워 시작할 수 있어요. 강사 대시보드에는 진행 중인 신청, 또는 마지막 기수가 3주 안에 끝나면 다음 기수 신청 안내가 보여요 |
-| `home.js` / `home.css` | 강사님을 위한 세일즈 첫 화면 (대표 주소 `https://www.doogoclass.com/` — `#/about` · `#/` 로 들어와도 주소창은 맨 앞 주소로 정리 · `#/partner` 는 입점 문의 팝업, 닫으면 맨 앞 주소). 두고 클래스는 강사님께 플랫폼 이용료를 받고 수강생은 무료, 이용료는 수강생 수와 상관없이 같아요(금액은 상담 때 안내라 화면에 숫자를 적지 않음). 강사님이 받는 세 가지: ① 강의 소개 랜딩페이지(`#/p/…`) ② 무료강의 전자책(`#/free/…`) ③ 수강생 케어 커리큘럼 · 튜토리얼 시스템. 순서(PC에서 빈 곳 없이 꽉 차게): 첫 화면(입점 문의 · 수강생 로그인 카드 — 빨강 책 아이콘 · “수강생이신가요?” · 오른쪽 빨간 ‘수강생 로그인’ 버튼, 카드 전체를 눌러도 됨) → 기수가 늘수록 버거운 운영 → **한 기수 운영 흐름 8단계**(모집 → 무료 강의 → 신청 · 승인 → 주차별 학습 → 과제 · 피드백 → 수료 → 수료 후 관리 → 다음 기수 — PC · 태블릿 4칸 × 2줄, 휴대폰 2칸 × 4줄, 번호는 26px 아이콘 색) → 세 가지(실제 화면 + 기능마다 6개 세부) → **지금 방식(단톡방 · 드라이브 · 노션)과 비교표 8줄** → 수강생이 받는 강의실(8개 탭 + 6개 기능) → 강사센터 세 화면 + 기능 8개 + **직접 고치는 메뉴 23개(운영 7 · 수강생 화면 13 · 홍보 3)** → 이용료 구조(강사님 정액 · 수강생 0원 · 인원 무관) + **기수 단위 운영 4단계**(1기 입점 → 다음 기수 신청 → 입금 · 세금계산서 → 기수 오픈) → 기수가 쌓일수록 강해지는 구조 → 강사진(프로필 사진 카드) → 입점 순서 5단계 → 자주 묻는 질문 10개(PC는 두 줄) → 마지막 안내(포인트 3개). **흰 바탕 + 아주 옅은 빨강**: 구역 · 패널(세 가지 기능 카드 · 수강생 화면 판 · 기수 운영 · 고객센터 상자) · 마지막 안내는 거의 흰색(#FFFEFE · #FFFCFC)에 빨강 기운만 아주 살짝, 구역은 옅은 구분선으로 나눔(빨강은 제목 일부 · 버튼만). 수강생 첫 로그인 · 강사 로그인 왼쪽도 같은 정도로 옅게. **아이콘은 여러 색** — 카드 순서대로 빨강 · 파랑 · 초록 · 보라 · 주황 · 분홍 파스텔(`--tone` / `--tone-bg`), 누르거나 마우스를 올려도 빨강으로 바뀌지 않음(올리면 카드만 살짝 뜸, 터치 화면은 반응 없음). **비교표**: 줄마다 화면에 들어오면 ‘지금 방식’ 글자에 빨간 줄이 왼쪽→오른쪽으로 그어지고, 이어서 두고 쪽 빨간 동그라미 체크가 톡 튀어나오며 칸이 한 번 밝아짐. 강사진 카드는 ‘N주 과정’만(과제 수는 뺌), 사진은 **타이탄클래스 강사진처럼 배경 장식 없이 밝은 회색 카드 안에 강사만**(문대표 `moon-profile.webp` 640×800 · 부알남 김신용 대표 `logic-profile.webp` · 황금농부 `farmer-profile.webp` 800×1000 — 모두 배경을 뺀 4:5, 머리 위 5% 여백, 부알남 · 황금농부는 팔짱 낀 허리 위까지. 문대표는 원본 사진이 가슴 아래까지만 있어 그만큼. 카드 아래에 붙여 꽉 채우고, 사진이 없으면 회색 실루엣), 이름 옆에 강사 SNS 이름표(유튜브 빨간 마크 + ‘강사 유튜브’ ↗ · 인스타그램 · 카카오톡 채널, 넣은 것만), 아래는 ‘강의 소개’ · ‘무료 강의’ 두 칸 버튼 + 한 줄 전체 ‘수강생 로그인’ 버튼(카드끼리 버튼 높이가 맞게). **디자인은 여기어때 YDS(디자인 시스템)**: Lively Red 800 `#F94239`(누르면 900 `#EA2013`, 옅은 50 `#FFF5F5` · 100 `#FFEDEA` · 200 `#FEDFDE`) + 무채색 Neutral(`#FAFAFA` · `#F5F5F5` · `#E6E6E6` · `#DCDCDC` · `#999999` · `#707070` · `#474747` · `#222222`), 보조색은 시안 `#006CE0` · 그린 `#01A484` 만, 그림자는 역할별 4단계(평평 · 머리띠 `0 4px 6px rgba(0,0,0,.04)` · 떠 있는 카드 `0 2px 16px rgba(0,0,0,.08)` · 시트), 모서리 8 · 12 · 16 · 20px. **글꼴은 문대표 수강생 화면과 똑같은 글꼴**(`styles.css` 의 `--font` = `"Inter", "Pretendard Variable", Pretendard, "Noto Sans KR", …` — 영문 · 숫자는 Inter, 한글은 Pretendard(`assets/fonts/pretendard.css`)), 본문 자간 0 · 굵은 제목은 수강생 화면처럼 좁게(첫 제목 -0.04em · 구역 제목 -0.03em · 카드 제목 -0.02em), 첫 제목 54px/800 · 구역 제목 32px/700 · 카드 제목 17~20px/700 · 본문 14~17px · 버튼 15px/600. 휴대폰 · 태블릿(한 줄 화면)에서 세 가지 기능 카드는 설명 → 실제 화면 영상 → 세부 기능 6개 순서. **세 가지 기능 카드**: 위 번호(01 · 02 · 03) 옆에 16px 이름표(모집 · 무료 강의 · 수강생 케어). 번호는 60px(휴대폰 46px) **두께 있는 입체 숫자**(오른쪽 아래로 6겹 + 그림자). 휴대폰 화면은 **입체 무대**(`.hm-3d`) 위에 — 뒤에 아주 큰 입체 doogo 심볼(7겹, 각 3px 깊이) · 휴대폰 두께 · 빛 반사 · 바닥 그림자 · 앞에 떠 있는 알림 카드 2개(01 수강 신청 1건 · 4기 모집 38/50명, 02 선물 전자책 · 무료 강의 카운트다운(1초마다 줄어듦), 03 자동 검수 통과 · 진행률 75%)가 서로 다른 깊이에 있어, **평소에는 언제나 정면**(기본 각도 0 — 스크롤하면 위아래로 살짝 뜨고 빛 반사만 지나감, `--sp` · 클로드 아티팩트처럼 글 길이만큼 늘어난 틀 안에서는 보이는 비율로 계산). **끌어서 돌려 보기**: 마우스로 끌거나 손가락으로 좌우로 밀 때만 정면 기준 앞면이 보이는 범위(좌우 ±35° · 위아래 ±15°, `--gy` · `--gx`) 안에서 돌아가고, 놓으면 살짝 튕기며 정면으로 — 휴대폰에서 세로로 밀면 원래대로 화면이 스크롤(`touch-action: pan-y`), 끈 뒤의 클릭은 무시, 캡션 옆 ‘끌어서 돌려 보기’ 안내(`--mx` · `--my`, `deviceorientation` — 권한을 묻지 않는 안드로이드 등만, 몇 초 지나면 가운데로 돌아옴). 알림 카드는 천천히 위아래로 떠다니고, 이 입체 움직임은 기기의 ‘애니메이션 줄이기’가 켜져 있어도 느리게 그대로. 구역 위아래 여백은 72px(태블릿 60 · 휴대폰 52), 첫 화면은 순수 흰 바탕(빨강 번짐 없음), 이용료 칸의 금액 안내 문구는 뺐어요. 첫 로그인 강사 고르기 화면(`.login-dc`) · 강사센터 · 코치 · 마스터도 같은 레드 · 글꼴. **두고 클래스 로고**(`doogoClassLock()` in `icons.js`, 모양은 `home.css` `.hm-lock`): doogo 로고(`doogo-color.png`, 레드 심볼 + 검정 글자)는 그대로 두고 오른쪽에 **작은 빨간 CLASS 배지**(흰 글자 · 대문자 · 로고 높이의 0.32배). 크기는 `--lh`(= doogo 로고 높이) 하나로 조절. 첫 화면 위 막대 · 바닥 · 비교표 · 첫 로그인 · 강사 로그인 카드 · 강사센터 · 마스터 머리띠에 같은 로고. `doogo-color.png` · `doogo-mark.png` · `favicon.png` 의 심볼도 같은 레드. 위 막대는 흰 바탕 그대로, 내려가면 머리띠 그림자가 생기고 아래 빨간 줄이 읽은 만큼 차올라요. 바닥(흰 바탕)은 소개 · 바로가기 3단(두고 클래스 · 바로가기 · 고객지원) + 문의 상자(전화가 있으면 고객센터 번호, 없으면 **사업제휴 · 입점 문의 이메일**을 크게 + 운영 시간(첫 마디 굵게 · 점심 · 휴무는 작게)) + **사업자 정보 두 줄**(① 상호(굵게) · 대표 · 사업자등록번호(사업자정보확인) · 통신판매업신고 ② 주소 · 우편번호 · 고객센터 · 사업제휴 문의 · 개인정보 보호책임자 · 호스팅) + 맨 아래 안내 문구(통신판매중개자) + 이용약관 · 개인정보처리방침 · 오픈소스 라이선스(주소를 넣기 전에는 `legal.js` 의 두고클래스(www.doogoclass.com) 정식 문서를 팝업으로 — 수강생 로그인 화면 팝업도 같은 문서, "## " 소제목 · "- " 목록 형식)로, 마스터 → 운영 → 첫 화면 · 사업자 정보에서 고쳐요(채운 칸만 보임, `meta.site`). 기본값(`db.js` `SITE_DEFAULT`)은 (주)두고홀딩스 · 대표 문원오 · 726-87-03167 · 제 2024-세종아름-0878 호 · 세종특별자치시 갈매로 353 에비뉴힐 5층 5023호(30121) · doogobiz@gmail.com · 평일 오전 10시 ~ 오후 6시(점심 1~2시 · 주말 · 공휴일 제외), 저장된 칸이 비어 있으면 기본값이 보여요(DB는 건드리지 않음). 두고 그룹사 칸은 바닥에서 뺐어요(예전에 저장한 값은 그대로 둠). 휴대폰(검정 노치 없이 화면만) · 브라우저 틀 안은 **실제 화면을 녹화한 영상**(마우스 커서 · 클릭 효과, 이름은 OOO, 강사센터는 예시 수강생 김OO…, 수강생 화면 · 강의 페이지는 녹화할 때만 첫 화면과 같은 ‘레드’ 색(흰 바탕 + 빨강 포인트)으로 — 실제 강사 색은 그대로): 첫 화면 `v-admin` · `v-home`, 세 가지 `v-lp` · `v-free` · `v-care`, 수강생 강의실 `v-student`(8개 장 — 탭을 누르면 그 장면으로, 영상이 넘어가면 탭도 따라감), 강사센터 `v-admin`(3개 장). `assets/home/v-*.mp4`(H.264) · `v-*.webm`(VP9, mp4를 못 트는 브라우저용) · `v-*.webp`(첫 장면 사진). 처음엔 사진만 보이고, 화면 근처(400px)에 오면 미리 받아 두고 **영상이 절반 넘게 보일 때만** 소리 없이 반복 재생 · 거의 안 보이면 멈춤(아래에 있는 영상은 내려가서 볼 때 시작). 휴대폰에서는 재생 버튼을 감추고(멈춰 둔 영상에만 보임), PC는 마우스를 올리면 오른쪽 아래 버튼으로 멈춤/재생. 다시 보면 멈췄던 곳부터 이어서 재생. 휴대폰의 ‘애니메이션 줄이기’ · 절전 모드여도 멈춘 채로 두지 않고 저절로 재생(소리 없는 화면 녹화). **영상 자동 재생을 막는 앱 안 브라우저**(일부 안드로이드 웹뷰 · 절전 모드 — `play()` 가 NotAllowedError 이거나 받아 둔 장면이 있는데 3초 넘게 멈춰 있으면)에서는 같은 녹화를 **움직이는 그림 `v-*.anim.webp`**(ffmpeg libwebp_anim, 휴대폰 영상 400px · 10fps, 강사센터 720px · 8fps, 0.6~1.3MB)으로 바꿔 보여 줘요. 영상을 다시 찍으면 anim.webp 도 같이 다시 만들기. 화면이 바뀌어 다시 찍을 때는 `scripts/demo-videos/`(Playwright + ffmpeg, 사용법은 lib.js 맨 위). 메뉴 · ‘3가지 기능 보기’ 버튼은 `scrollIntoView` 로 내려가서 클로드 아티팩트처럼 다른 화면 안에 들어가 있어도 움직여요. **대표 주소는 https://www.doogoclass.com** (doogoclass.com 은 www 로 308 이동, doogo-class.vercel.app 도 그대로 열림). **검색 · 공유(SEO)**: `index.html` 머리에 제목 “두고클래스 | 강사를 위한 올인원 강의 운영 플랫폼” · 설명(강의 개설부터 수강생 관리, 출석·과제, 공지, 자료실, 운영 관리까지 …) · 공유 이미지 `assets/home/og.jpg`(대표님이 준 디자인 이미지를 1200×630으로, 화면 캡처로 다시 만들지 않기 — 바꾸면 `?v=` 숫자도 바꿔야 카카오톡 · 페이스북이 새로 가져감) · canonical · og/twitter 태그 · 구조화 데이터(WebSite · Organization JSON-LD), `robots.txt`(/api 제외) · `sitemap.xml`. 첫 화면 탭 제목(`home.js` `document.title`)도 같은 제목. **입점 문의**: 위 막대 · 첫 화면 · 세 가지 · 이용료 · 강사진 · 입점 순서 · FAQ · 마지막 안내 · 바닥의 버튼(또는 `#/partner`)으로 팝업이 열리고, 서버에서는 `inq:<id>` 문서로 저장(마스터만 읽기 · 같은 IP는 연속 6건까지), 마스터 → 지원 → 강사 입점 문의에서 상태 · 메모 · 삭제 |
+| `home.js` / `home.css` | 강사님을 위한 세일즈 첫 화면 (대표 주소 `https://www.doogoclass.com/` — `#/about` · `#/` 로 들어와도 주소창은 맨 앞 주소로 정리 · `#/partner` 는 입점 문의 팝업, 닫으면 맨 앞 주소). 두고 클래스는 강사님께 플랫폼 이용료를 받고 수강생은 무료, 이용료는 수강생 수와 상관없이 같아요(금액은 상담 때 안내라 화면에 숫자를 적지 않음). 강사님이 받는 세 가지: ① 강의 소개 랜딩페이지(`#/p/…`) ② 무료강의 전자책(`#/free/…`) ③ 수강생 케어 커리큘럼 · 튜토리얼 시스템. 순서(PC에서 빈 곳 없이 꽉 차게): 첫 화면(입점 문의 · 수강생 로그인 카드 — 빨강 책 아이콘 · “수강생이신가요?” · 오른쪽 빨간 ‘수강생 로그인’ 버튼, 카드 전체를 눌러도 됨) → 기수가 늘수록 버거운 운영 → **한 기수 운영 흐름 8단계**(모집 → 무료 강의 → 신청 · 승인 → 주차별 학습 → 과제 · 피드백 → 수료 → 수료 후 관리 → 다음 기수 — PC · 태블릿 4칸 × 2줄, 휴대폰 2칸 × 4줄, 번호는 26px 아이콘 색) → 세 가지(실제 화면 + 기능마다 6개 세부) → **지금 방식(단톡방 · 드라이브 · 노션)과 비교표 8줄** → 수강생이 받는 강의실(8개 탭 + 6개 기능) → 강사센터 세 화면 + 기능 8개 + **직접 고치는 메뉴 23개(운영 7 · 수강생 화면 13 · 홍보 3)** → 이용료 구조(강사님 정액 · 수강생 0원 · 인원 무관) + **기수 단위 운영 4단계**(1기 입점 → 다음 기수 신청 → 입금 · 세금계산서 → 기수 오픈) → 기수가 쌓일수록 강해지는 구조 → 강사진(프로필 사진 카드) → 입점 순서 5단계 → 자주 묻는 질문 10개(PC는 두 줄) → 마지막 안내(포인트 3개). **흰 바탕 + 아주 옅은 빨강**: 구역 · 패널(세 가지 기능 카드 · 수강생 화면 판 · 기수 운영 · 고객센터 상자) · 마지막 안내는 거의 흰색(#FFFEFE · #FFFCFC)에 빨강 기운만 아주 살짝, 구역은 옅은 구분선으로 나눔(빨강은 제목 일부 · 버튼만). 수강생 첫 로그인 · 강사 로그인 왼쪽도 같은 정도로 옅게. **아이콘은 여러 색** — 카드 순서대로 빨강 · 파랑 · 초록 · 보라 · 주황 · 분홍 파스텔(`--tone` / `--tone-bg`), 누르거나 마우스를 올려도 빨강으로 바뀌지 않음(올리면 카드만 살짝 뜸, 터치 화면은 반응 없음). **비교표**: 줄마다 화면에 들어오면 ‘지금 방식’ 글자에 빨간 줄이 왼쪽→오른쪽으로 그어지고, 이어서 두고 쪽 빨간 동그라미 체크가 톡 튀어나오며 칸이 한 번 밝아짐. 강사진 카드는 ‘N주 과정’만(과제 수는 뺌), 사진은 **긱스쿨 강사진처럼 큰 브랜드 모양 위에 누끼 사진** — 흰 바탕 액자 + 아주 큰 빨간 3D doogo 심볼(`DSYM_DEFS` 의 `#hm-dsym` 벡터, 뒤로 6겹 = 입체 두께, 카드마다 다른 부분이 보이게 크기 · 위치를 바꿈) 위에, 액자 위로 머리가 살짝 튀어나오는 누끼 사진(문대표 `moon-profile.webp` · 부알남 김신용 대표 `logic-profile.webp` · 황금농부 `farmer-profile.webp` — 모두 배경을 뺀 800×1000(4:5), 머리 위 5% 여백 · 허리 위 상반신까지 같은 구도. 사진이 없으면 흰 실루엣), 이름 옆에 강사 SNS 이름표(유튜브 빨간 마크 + ‘강사 유튜브’ ↗ · 인스타그램 · 카카오톡 채널, 넣은 것만), 아래는 ‘강의 소개’ · ‘무료 강의’ 두 칸 버튼 + 한 줄 전체 ‘수강생 로그인’ 버튼(카드끼리 버튼 높이가 맞게). **디자인은 여기어때 YDS(디자인 시스템)**: Lively Red 800 `#F94239`(누르면 900 `#EA2013`, 옅은 50 `#FFF5F5` · 100 `#FFEDEA` · 200 `#FEDFDE`) + 무채색 Neutral(`#FAFAFA` · `#F5F5F5` · `#E6E6E6` · `#DCDCDC` · `#999999` · `#707070` · `#474747` · `#222222`), 보조색은 시안 `#006CE0` · 그린 `#01A484` 만, 그림자는 역할별 4단계(평평 · 머리띠 `0 4px 6px rgba(0,0,0,.04)` · 떠 있는 카드 `0 2px 16px rgba(0,0,0,.08)` · 시트), 모서리 8 · 12 · 16 · 20px. **글꼴은 문대표 수강생 화면과 똑같은 글꼴**(`styles.css` 의 `--font` = `"Inter", "Pretendard Variable", Pretendard, "Noto Sans KR", …` — 영문 · 숫자는 Inter, 한글은 Pretendard(`assets/fonts/pretendard.css`)), 본문 자간 0 · 굵은 제목은 수강생 화면처럼 좁게(첫 제목 -0.04em · 구역 제목 -0.03em · 카드 제목 -0.02em), 첫 제목 54px/800 · 구역 제목 32px/700 · 카드 제목 17~20px/700 · 본문 14~17px · 버튼 15px/600. 휴대폰 · 태블릿(한 줄 화면)에서 세 가지 기능 카드는 설명 → 실제 화면 영상 → 세부 기능 6개 순서. **세 가지 기능 카드**: 위 번호(01 · 02 · 03) 옆에 16px 이름표(모집 · 무료 강의 · 수강생 케어). 번호는 60px(휴대폰 46px) **두께 있는 입체 숫자**(오른쪽 아래로 6겹 + 그림자). 휴대폰 화면은 **입체 무대**(`.hm-3d`) 위에 — 뒤에 아주 큰 입체 doogo 심볼(7겹, 각 3px 깊이) · 휴대폰 두께 · 빛 반사 · 바닥 그림자 · 앞에 떠 있는 알림 카드 2개(01 수강 신청 1건 · 4기 모집 38/50명, 02 선물 전자책 · 무료 강의 카운트다운(1초마다 줄어듦), 03 자동 검수 통과 · 진행률 75%)가 서로 다른 깊이에 있어, **평소에는 언제나 정면**(기본 각도 0 — 스크롤하면 위아래로 살짝 뜨고 빛 반사만 지나감, `--sp` · 클로드 아티팩트처럼 글 길이만큼 늘어난 틀 안에서는 보이는 비율로 계산). **끌어서 돌려 보기**: 마우스로 끌거나 손가락으로 좌우로 밀 때만 정면 기준 앞면이 보이는 범위(좌우 ±35° · 위아래 ±15°, `--gy` · `--gx`) 안에서 돌아가고, 놓으면 살짝 튕기며 정면으로 — 휴대폰에서 세로로 밀면 원래대로 화면이 스크롤(`touch-action: pan-y`), 끈 뒤의 클릭은 무시, 캡션 옆 ‘끌어서 돌려 보기’ 안내(`--mx` · `--my`, `deviceorientation` — 권한을 묻지 않는 안드로이드 등만, 몇 초 지나면 가운데로 돌아옴). 알림 카드는 천천히 위아래로 떠다니고, 이 입체 움직임은 기기의 ‘애니메이션 줄이기’가 켜져 있어도 느리게 그대로. 구역 위아래 여백은 72px(태블릿 60 · 휴대폰 52), 첫 화면은 순수 흰 바탕(빨강 번짐 없음), 이용료 칸의 금액 안내 문구는 뺐어요. 첫 로그인 강사 고르기 화면(`.login-dc`) · 강사센터 · 코치 · 마스터도 같은 레드 · 글꼴. **두고 클래스 로고**(`doogoClassLock()` in `icons.js`, 모양은 `home.css` `.hm-lock`): doogo 로고(`doogo-color.png`, 레드 심볼 + 검정 글자)는 그대로 두고 오른쪽에 **작은 빨간 CLASS 배지**(흰 글자 · 대문자 · 로고 높이의 0.32배). 크기는 `--lh`(= doogo 로고 높이) 하나로 조절. 첫 화면 위 막대 · 바닥 · 비교표 · 첫 로그인 · 강사 로그인 카드 · 강사센터 · 마스터 머리띠에 같은 로고. `doogo-color.png` · `doogo-mark.png` · `favicon.png` 의 심볼도 같은 레드. 위 막대는 흰 바탕 그대로, 내려가면 머리띠 그림자가 생기고 아래 빨간 줄이 읽은 만큼 차올라요. 바닥(흰 바탕)은 소개 · 바로가기 3단(두고 클래스 · 바로가기 · 고객지원) + 문의 상자(전화가 있으면 고객센터 번호, 없으면 **사업제휴 · 입점 문의 이메일**을 크게 + 운영 시간(첫 마디 굵게 · 점심 · 휴무는 작게)) + **사업자 정보 두 줄**(① 상호(굵게) · 대표 · 사업자등록번호(사업자정보확인) · 통신판매업신고 ② 주소 · 우편번호 · 고객센터 · 사업제휴 문의 · 개인정보 보호책임자 · 호스팅) + 맨 아래 안내 문구(통신판매중개자) + 이용약관 · 개인정보처리방침 · 오픈소스 라이선스(주소를 넣기 전에는 `legal.js` 의 두고클래스(www.doogoclass.com) 정식 문서를 팝업으로 — 수강생 로그인 화면 팝업도 같은 문서, "## " 소제목 · "- " 목록 형식)로, 마스터 → 운영 → 첫 화면 · 사업자 정보에서 고쳐요(채운 칸만 보임, `meta.site`). 기본값(`db.js` `SITE_DEFAULT`)은 (주)두고홀딩스 · 대표 문원오 · 726-87-03167 · 제 2024-세종아름-0878 호 · 세종특별자치시 갈매로 353 에비뉴힐 5층 5023호(30121) · doogobiz@gmail.com · 평일 오전 10시 ~ 오후 6시(점심 1~2시 · 주말 · 공휴일 제외), 저장된 칸이 비어 있으면 기본값이 보여요(DB는 건드리지 않음). 두고 그룹사 칸은 바닥에서 뺐어요(예전에 저장한 값은 그대로 둠). 휴대폰(검정 노치 없이 화면만) · 브라우저 틀 안은 **실제 화면을 녹화한 영상**(마우스 커서 · 클릭 효과, 이름은 OOO, 강사센터는 예시 수강생 김OO…, 수강생 화면 · 강의 페이지는 녹화할 때만 첫 화면과 같은 ‘레드’ 색(흰 바탕 + 빨강 포인트)으로 — 실제 강사 색은 그대로): 첫 화면 `v-admin` · `v-home`, 세 가지 `v-lp` · `v-free` · `v-care`, 수강생 강의실 `v-student`(8개 장 — 탭을 누르면 그 장면으로, 영상이 넘어가면 탭도 따라감), 강사센터 `v-admin`(3개 장). `assets/home/v-*.mp4`(H.264) · `v-*.webm`(VP9, mp4를 못 트는 브라우저용) · `v-*.webp`(첫 장면 사진). 처음엔 사진만 보이고, 화면 근처(400px)에 오면 미리 받아 두고 **영상이 절반 넘게 보일 때만** 소리 없이 반복 재생 · 거의 안 보이면 멈춤(아래에 있는 영상은 내려가서 볼 때 시작). 휴대폰에서는 재생 버튼을 감추고(멈춰 둔 영상에만 보임), PC는 마우스를 올리면 오른쪽 아래 버튼으로 멈춤/재생. 다시 보면 멈췄던 곳부터 이어서 재생. 휴대폰의 ‘애니메이션 줄이기’ · 절전 모드여도 멈춘 채로 두지 않고 저절로 재생(소리 없는 화면 녹화). **영상 자동 재생을 막는 앱 안 브라우저**(일부 안드로이드 웹뷰 · 절전 모드 — `play()` 가 NotAllowedError 이거나 받아 둔 장면이 있는데 3초 넘게 멈춰 있으면)에서는 같은 녹화를 **움직이는 그림 `v-*.anim.webp`**(ffmpeg libwebp_anim, 휴대폰 영상 400px · 10fps, 강사센터 720px · 8fps, 0.6~1.3MB)으로 바꿔 보여 줘요. 영상을 다시 찍으면 anim.webp 도 같이 다시 만들기. 화면이 바뀌어 다시 찍을 때는 `scripts/demo-videos/`(Playwright + ffmpeg, 사용법은 lib.js 맨 위). 메뉴 · ‘3가지 기능 보기’ 버튼은 `scrollIntoView` 로 내려가서 클로드 아티팩트처럼 다른 화면 안에 들어가 있어도 움직여요. **대표 주소는 https://www.doogoclass.com** (doogoclass.com 은 www 로 308 이동, doogo-class.vercel.app 도 그대로 열림). **검색 · 공유(SEO)**: `index.html` 머리에 제목 “두고클래스 | 강사를 위한 올인원 강의 운영 플랫폼” · 설명(강의 개설부터 수강생 관리, 출석·과제, 공지, 자료실, 운영 관리까지 …) · 공유 이미지 `assets/home/og.jpg`(대표님이 준 디자인 이미지를 1200×630으로, 화면 캡처로 다시 만들지 않기 — 바꾸면 `?v=` 숫자도 바꿔야 카카오톡 · 페이스북이 새로 가져감) · canonical · og/twitter 태그 · 구조화 데이터(WebSite · Organization JSON-LD), `robots.txt`(/api 제외) · `sitemap.xml`. 첫 화면 탭 제목(`home.js` `document.title`)도 같은 제목. **입점 문의**: 위 막대 · 첫 화면 · 세 가지 · 이용료 · 강사진 · 입점 순서 · FAQ · 마지막 안내 · 바닥의 버튼(또는 `#/partner`)으로 팝업이 열리고, 서버에서는 `inq:<id>` 문서로 저장(마스터만 읽기 · 같은 IP는 연속 6건까지), 마스터 → 지원 → 강사 입점 문의에서 상태 · 메모 · 삭제 |
 | `landing.js` / `landing.css` | 강사 홍보 랜딩페이지 · 무료강의 페이지 (공개) |
 | `main.js` | 주소에 따라 소개(home) · 강사센터(admin) · 강사 페이지(landing) · 수강생 센터(app) 전환 |
 | `styles.css` / `admin.css` | 수강생(Wise 구조 + 강사별 색) / 강사·코치·마스터(여기어때 YDS: 레드 #F94239 · 무채색 · 둥근 사각 버튼 8~12px · 자간 0, 흰 바탕에 옅은 빨강 파스텔 — 본문 위쪽 그라데이션 · 따뜻한 구분선 · 숫자 카드마다 다른 파스텔 · 강사 공지 띠도 파스텔) 디자인. 수강생 첫 로그인 강사 고르기 화면 왼쪽도 같은 파스텔, 글자 아바타는 여러 색. 기본 글꼴은 모두 `--font`(Inter + Pretendard, 문대표 수강생 화면과 같은 글꼴) |
